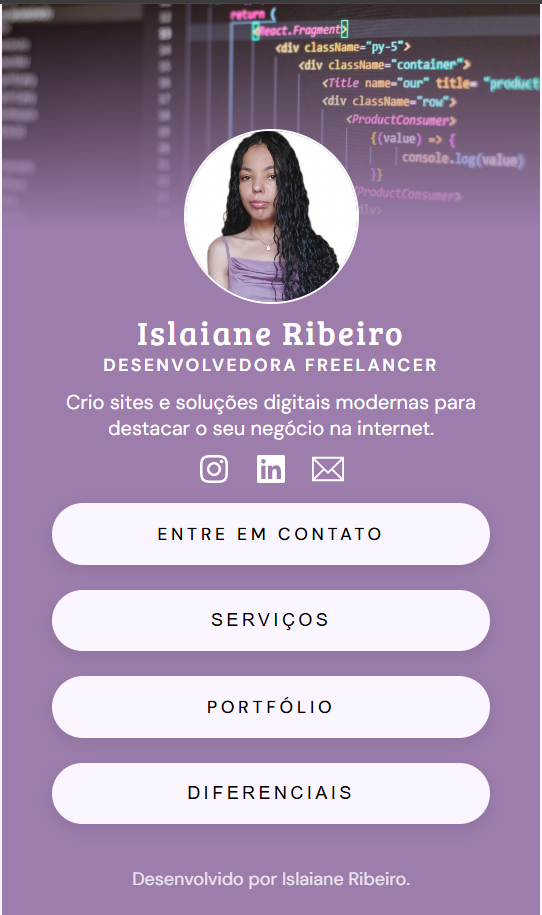
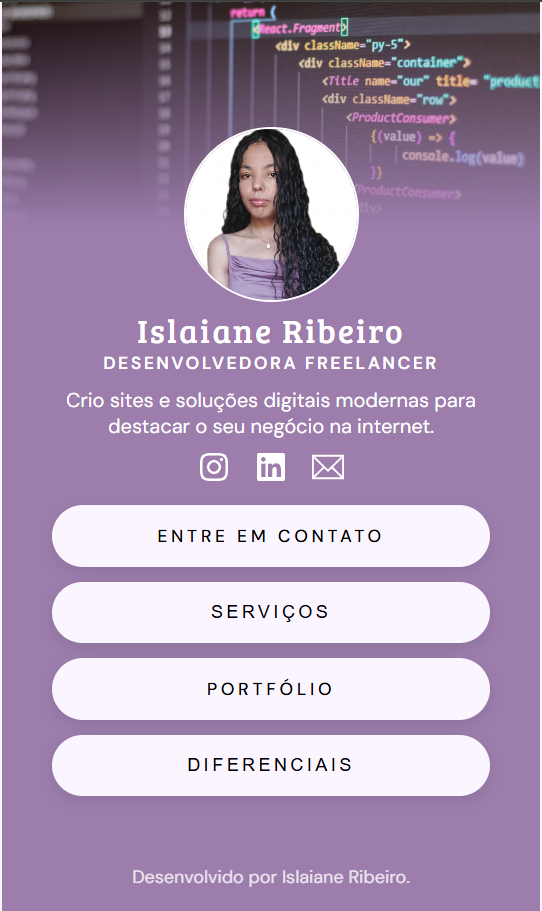
style: refina estilos e corrige detalhes visuais finais

diff --git a/src/App.css b/src/App.css
@@ -3,7 +3,7 @@
   flex-direction: column;
   align-items: center;
   text-align: center;
-  padding: 0 30px 20px;
+  padding: 0 23px 20px;
   max-width: 430px;
   min-height: 100vh;
   margin: 0 auto;
@@ -60,20 +60,19 @@
 }
 
 .profile h2 {
-  margin-top: 0;
+  margin-bottom: 5px;
   letter-spacing: 2px;
   font-size: 14px;
 }
 
 .profile p {
   max-width: 350px;
-  margin: 10px 0;
+  margin-bottom: 10px;
 }
 
 .socials {
   display: flex;
   gap: 20px;
-  margin-bottom: 5px;
 }
 
 .socials-btn {
@@ -96,12 +95,13 @@
   max-width: 350px;
   display: flex;
   flex-direction: column;
+  margin-top: 18px;
 }
 
 .btn {
   width: 100%;
   padding: 16px;
-  margin: 10px 0;
+  margin-bottom: 12px;
   border-radius: 40px;
   border: none;
   font-size: 14px;
@@ -151,7 +151,7 @@
   width: 100%;
   color: #000;
   position: relative;
-  margin: 8px;
+  margin-inline: 10px;
 
   opacity: 0;
   transform: translateY(20px) scale(0.95);
@@ -177,6 +177,7 @@
   background-color: transparent;
   color: #000000;
   display: flex;
+  cursor: pointer;
 }
 
 .modal h2 {
